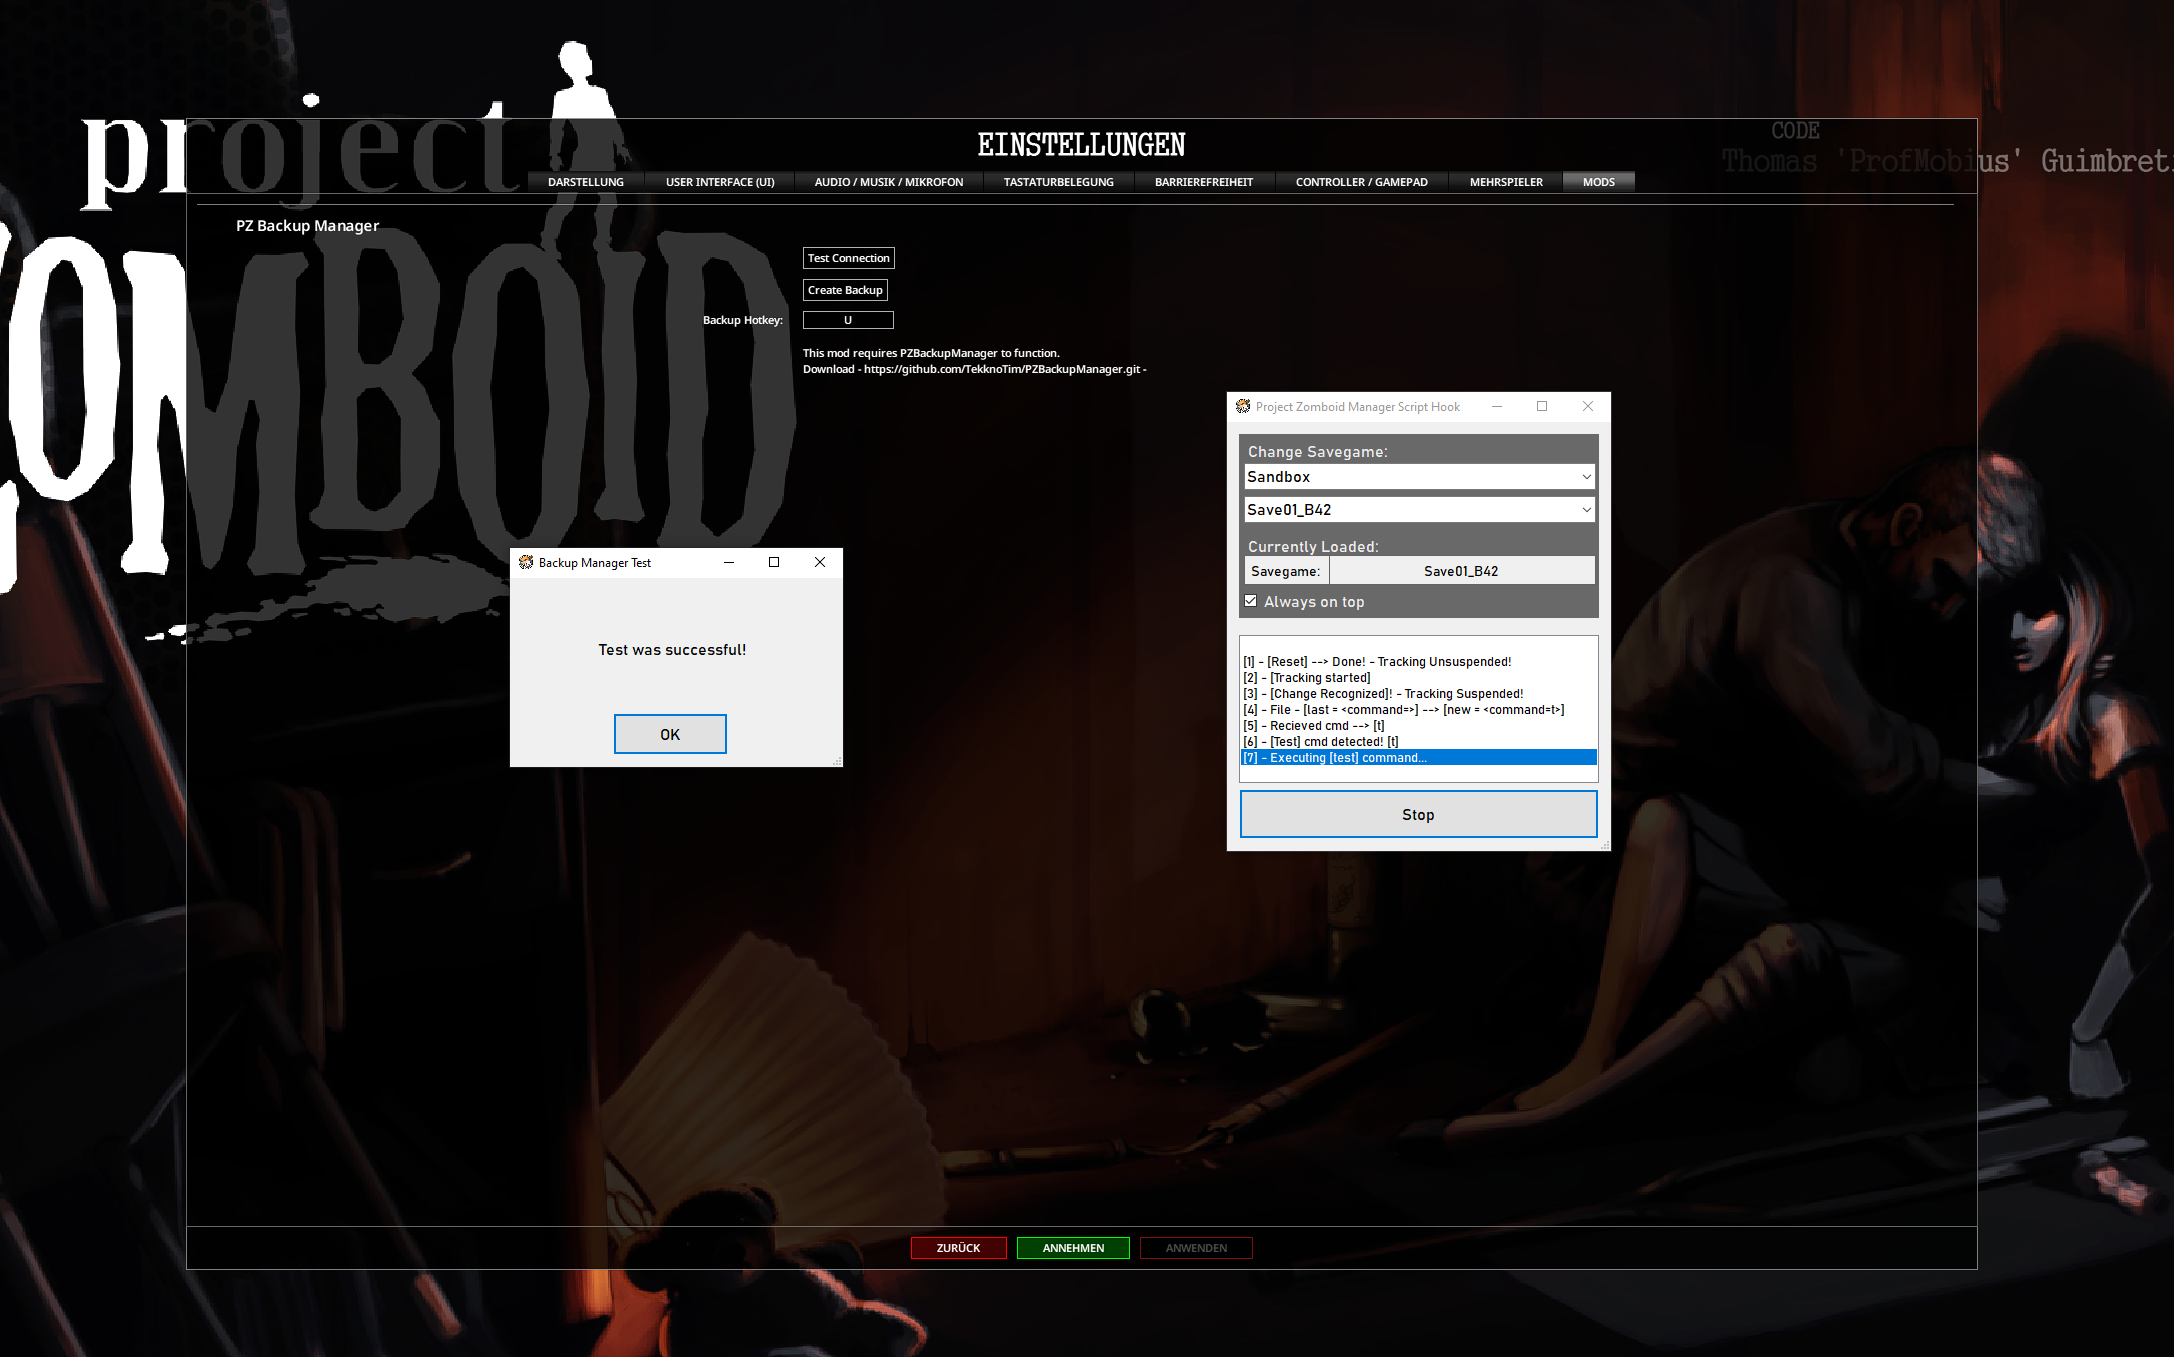
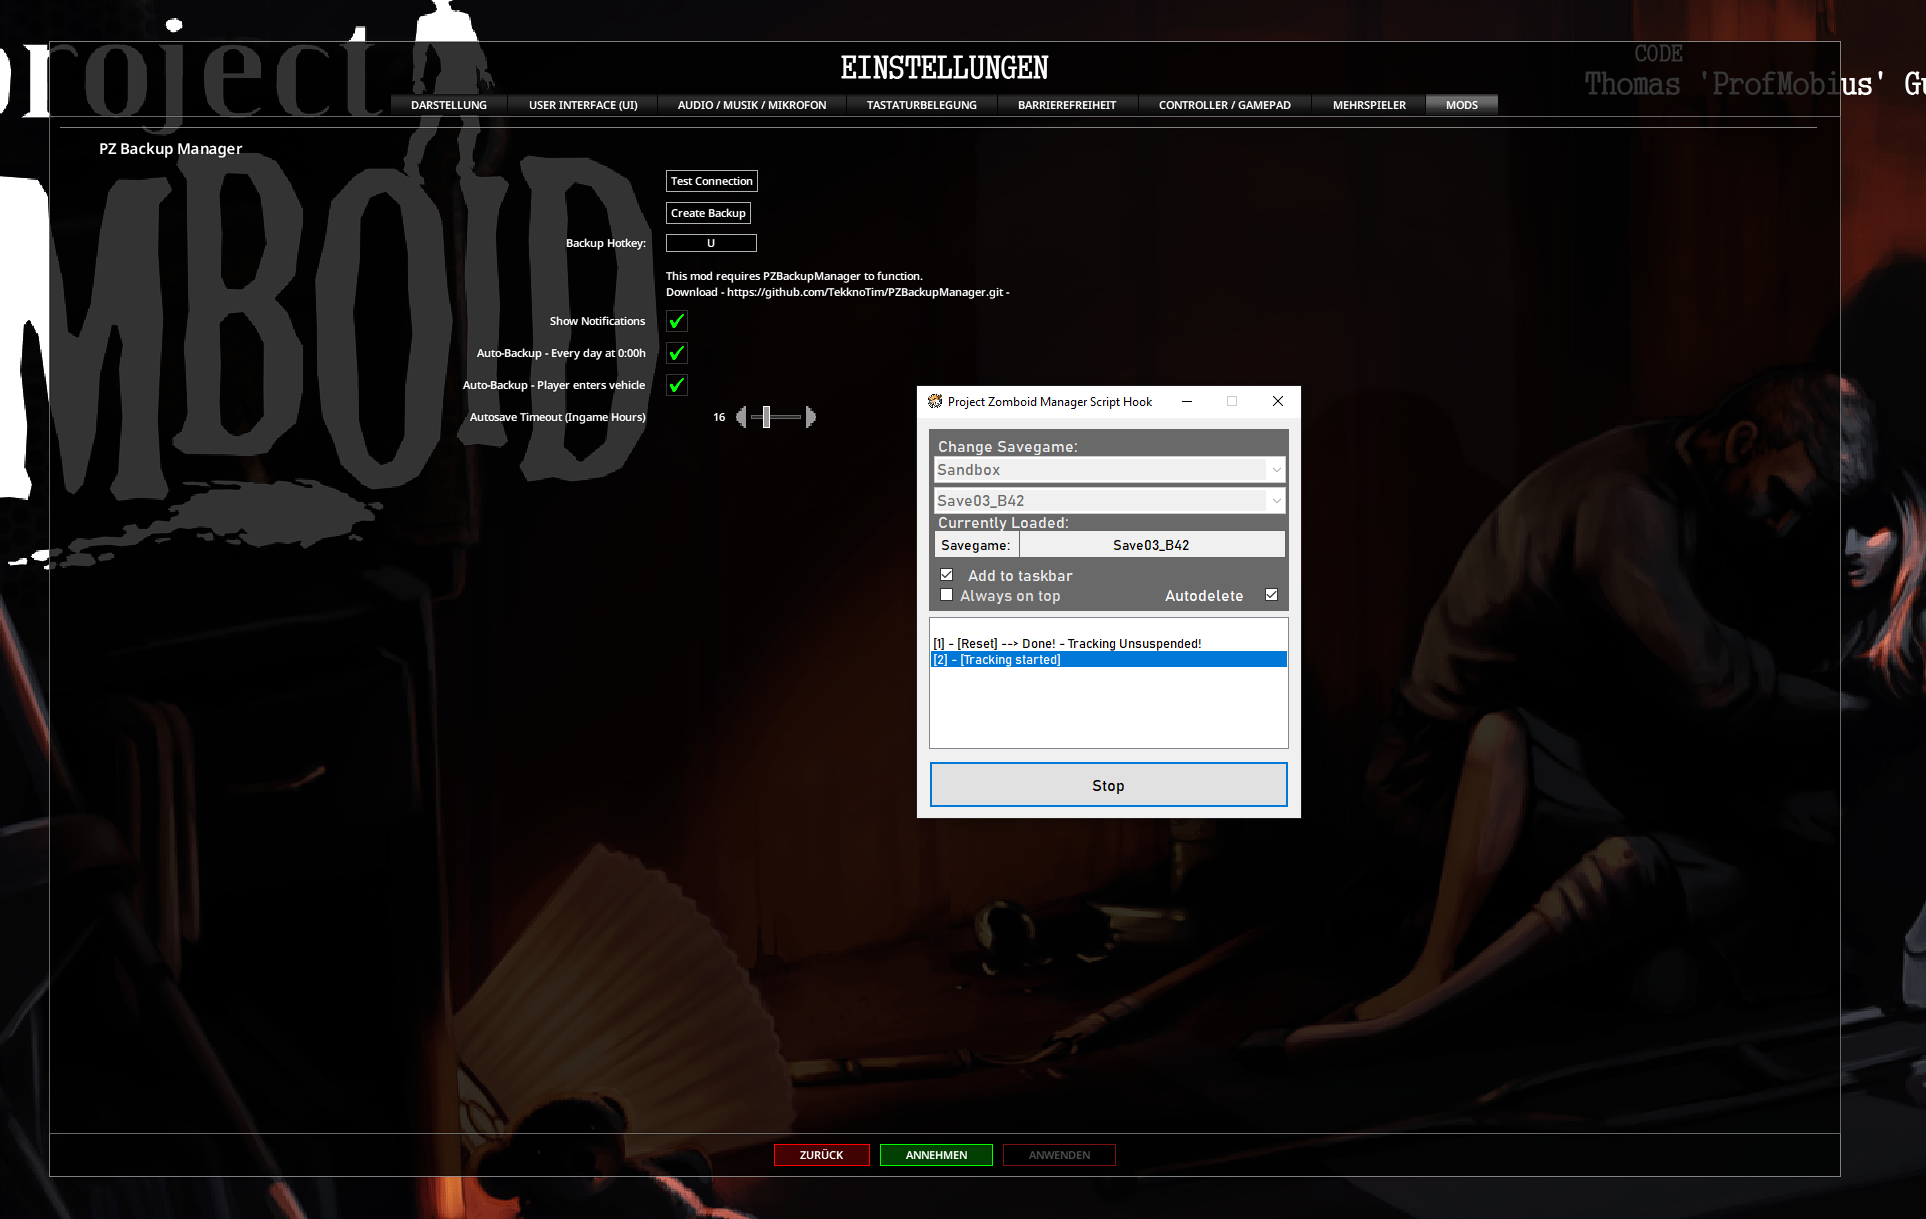
1. - Changed: Updated Workshop Screenshots 2. - Added: The PZScriptHook window will now recognize if the ProjectZomboid64.exe is running 3. - Added: The ability to unminimize from the taskbar, when Project Zomboid is closed. (Will stop tracking automatically as well)

diff --git a/PZScriptHook.cs b/PZScriptHook.cs
@@ -12,6 +12,7 @@ using System.Resources;
 using System.ComponentModel;
 using static System.Windows.Forms.DataFormats;
 using System.Reflection.Metadata;
+using System.Diagnostics;
 
 namespace ZomboidBackupManager
 {
@@ -21,6 +22,10 @@ namespace ZomboidBackupManager
         public Form? myParentForm { get; set; }
 
         private FileSystemWatcher fileWatcher;
+
+        private System.Windows.Forms.Timer checkTimer;
+
+        private bool wasRunning = true;
 
         private string lastContent = "";
 
@@ -47,6 +52,11 @@ namespace ZomboidBackupManager
 
             //MessageBox.Show($"selGamemode = {selGameMode}");
             GamemodesComboBox.SelectedIndex = currentLoadedGamemodeIndex;
+
+            // Init polling timer:
+            checkTimer = new System.Windows.Forms.Timer();
+            checkTimer.Interval = 2000;
+            checkTimer.Tick += CheckTimer_Tick;
 
             string? path = Path.GetDirectoryName(Configuration.absoluteHookFilePATH);
 
@@ -147,6 +157,7 @@ namespace ZomboidBackupManager
             GamemodesComboBox.Enabled = false;
             SavegameComboBox.Enabled = false;
             ResetHookCommandInFile();
+            BeginPolling();
             PrintDebug("[PZScriptHook] - [Tracking started]");
             PrintStatusLog("[Tracking started]");
             StartStopButton.Text = "Stop";
@@ -157,6 +168,10 @@ namespace ZomboidBackupManager
             fileWatcher.EnableRaisingEvents = false;
             GamemodesComboBox.Enabled = true;
             SavegameComboBox.Enabled = true;
+            if (checkTimer.Enabled)
+            {
+                EndPolling();
+            }
             PrintDebug("[PZScriptHook] - [Tracking stopped]");
             PrintStatusLog("[Tracking stopped]");
             StartStopButton.Text = "Start";
@@ -443,9 +458,7 @@ namespace ZomboidBackupManager
         {
             if (e.Button == MouseButtons.Left)
             {
-                this.WindowState = FormWindowState.Normal;
-                this.ShowInTaskbar = true;
-                MinimizedNotifyIcon.Visible = false;
+                UnMinimize();
             }
         }
 
@@ -501,9 +514,11 @@ namespace ZomboidBackupManager
             //NotifyIconTrackingInfoTextbox.Text = "Tracking: " + stateString;
         }
 
-        private void NotifyIconMenuStrip_Opening(object sender, System.ComponentModel.CancelEventArgs e)
+        private void UnMinimize()
         {
-
+            this.WindowState = FormWindowState.Normal;
+            this.ShowInTaskbar = true;
+            MinimizedNotifyIcon.Visible = false;
         }
 
         private void closeToolStripMenuItem_Click(object sender, EventArgs e)
@@ -514,14 +529,42 @@ namespace ZomboidBackupManager
             }
         }
 
-        private void txtLog_SelectedIndexChanged(object sender, EventArgs e)
-        {
+        //===============================================================================================
+        //=======--------------------[ ProjectZomboid64 Process Tracking ]--------------------===========
+        //===============================================================================================
 
+        private void OnPZExeClosed()
+        {
+            UnMinimize();
         }
 
-        private void AutoDeleteCheckbox_CheckedChanged(object sender, EventArgs e)
+        private void CheckTimer_Tick(object? sender, EventArgs e)
         {
+            var isRunning = Process.GetProcessesByName("ProjectZomboid64").Length > 0;
 
+            if (wasRunning && !isRunning)
+            {
+                checkTimer.Stop();
+                StopTracking();
+                PrintDebug("[PZScriptHook.cs] - [InitPollingTimer] - [ProjectZomboid64.exe was closed!] ");
+                OnPZExeClosed();
+            }
+
+            wasRunning = isRunning;
         }
+
+        private void BeginPolling()
+        {
+            wasRunning = Process.GetProcessesByName("ProjectZomboid64").Length > 0;
+            checkTimer.Start();
+        }
+
+        private void EndPolling()
+        {
+            wasRunning = true;
+            checkTimer.Stop();
+        }
+
+
     }
 }

diff --git a/PZScriptHook.Designer.cs b/PZScriptHook.Designer.cs
@@ -83,7 +83,6 @@
             txtLog.SelectionMode = SelectionMode.None;
             txtLog.Size = new Size(360, 132);
             txtLog.TabIndex = 1;
-            txtLog.SelectedIndexChanged += txtLog_SelectedIndexChanged;
             // 
             // LoadedSavegameInfoPanel
             // 
@@ -116,7 +115,6 @@
             AutoDeleteCheckbox.TextAlign = ContentAlignment.MiddleCenter;
             PZScriptHookTooltip.SetToolTip(AutoDeleteCheckbox, "Enable/Disable \"Autodelete\" feature. For more information,\r\ngo back to: Main Window -> Settings -> Autodelete");
             AutoDeleteCheckbox.UseVisualStyleBackColor = true;
-            AutoDeleteCheckbox.CheckedChanged += AutoDeleteCheckbox_CheckedChanged;
             AutoDeleteCheckbox.Click += AutoDeleteCheckbox_Click;
             // 
             // AddToTaskBarCheckbox

diff --git a/Configuration.cs b/Configuration.cs
@@ -234,13 +234,13 @@ namespace ZomboidBackupManager
         // lvl = the level of the message. 1 = Warning ; 2 = Error ; any other = info
         {
             string label = string.Empty;
-            if (lvl > 0)
-            {
-                label = debugWarningLabel;
-            }
-            else if (lvl > 1)
+            if (lvl == 2)
             {
                 label = debugErrorLabel;
+            }
+            else if (lvl == 1)
+            {
+                label = debugWarningLabel;
             }
             else
             {
